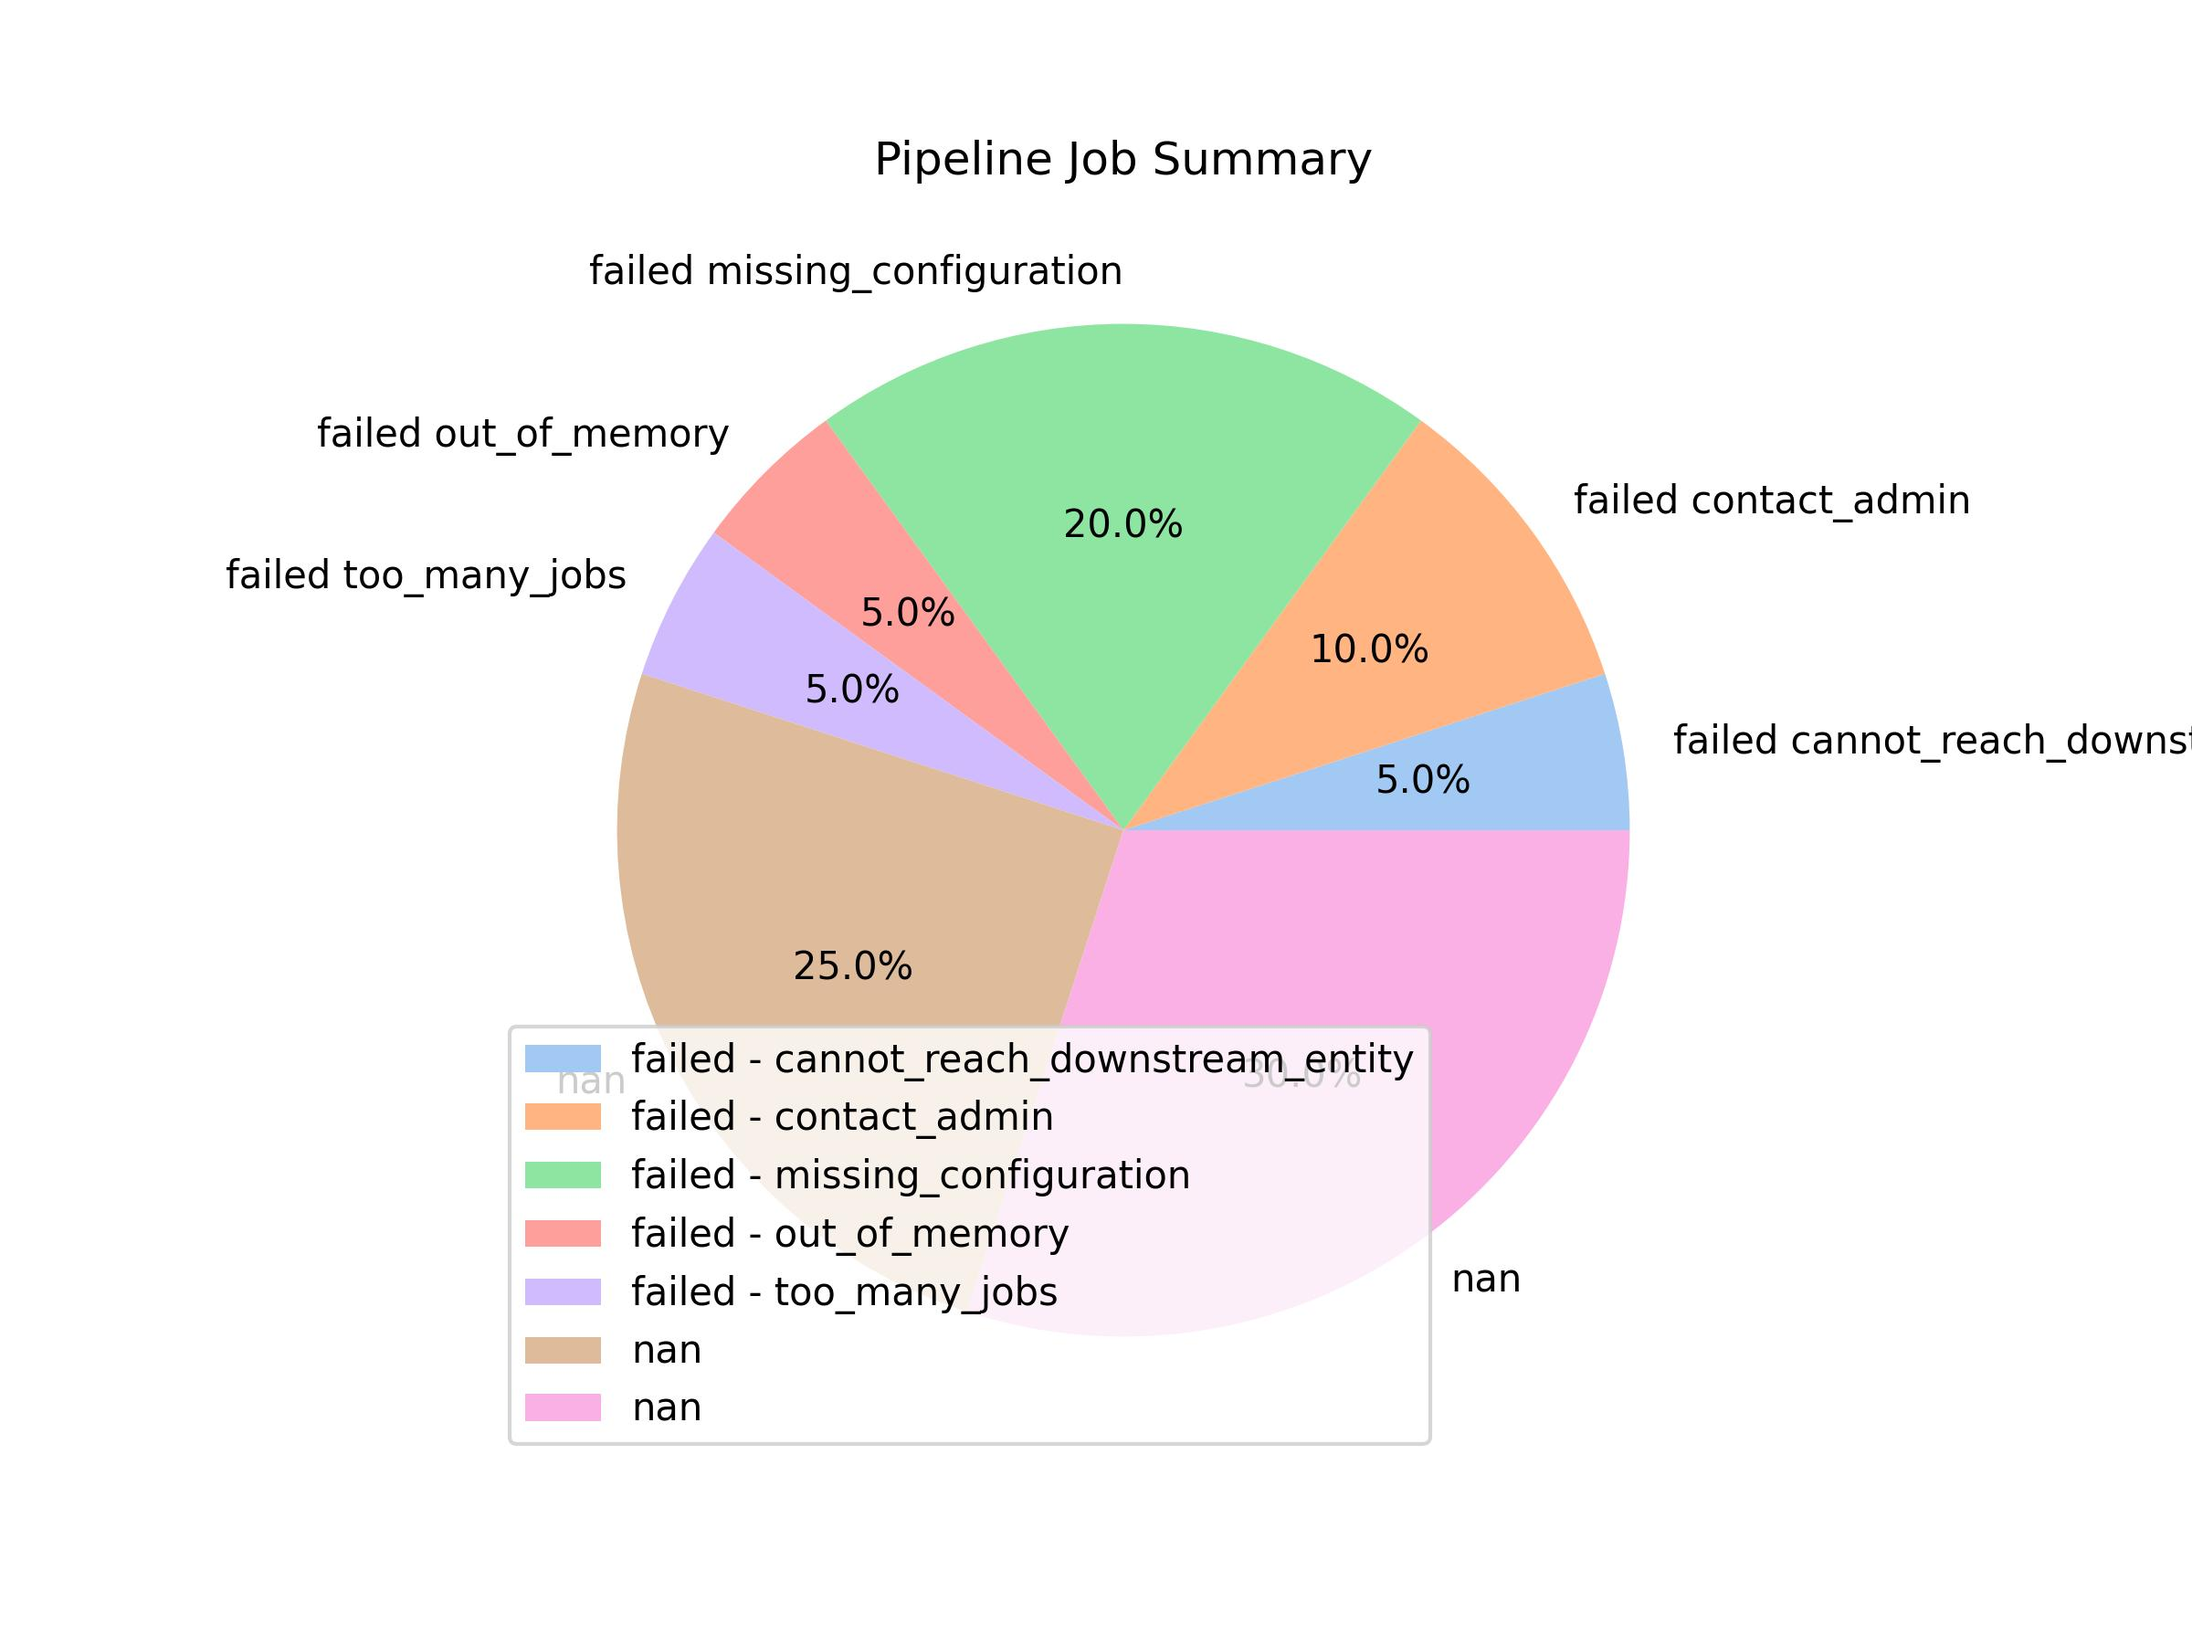
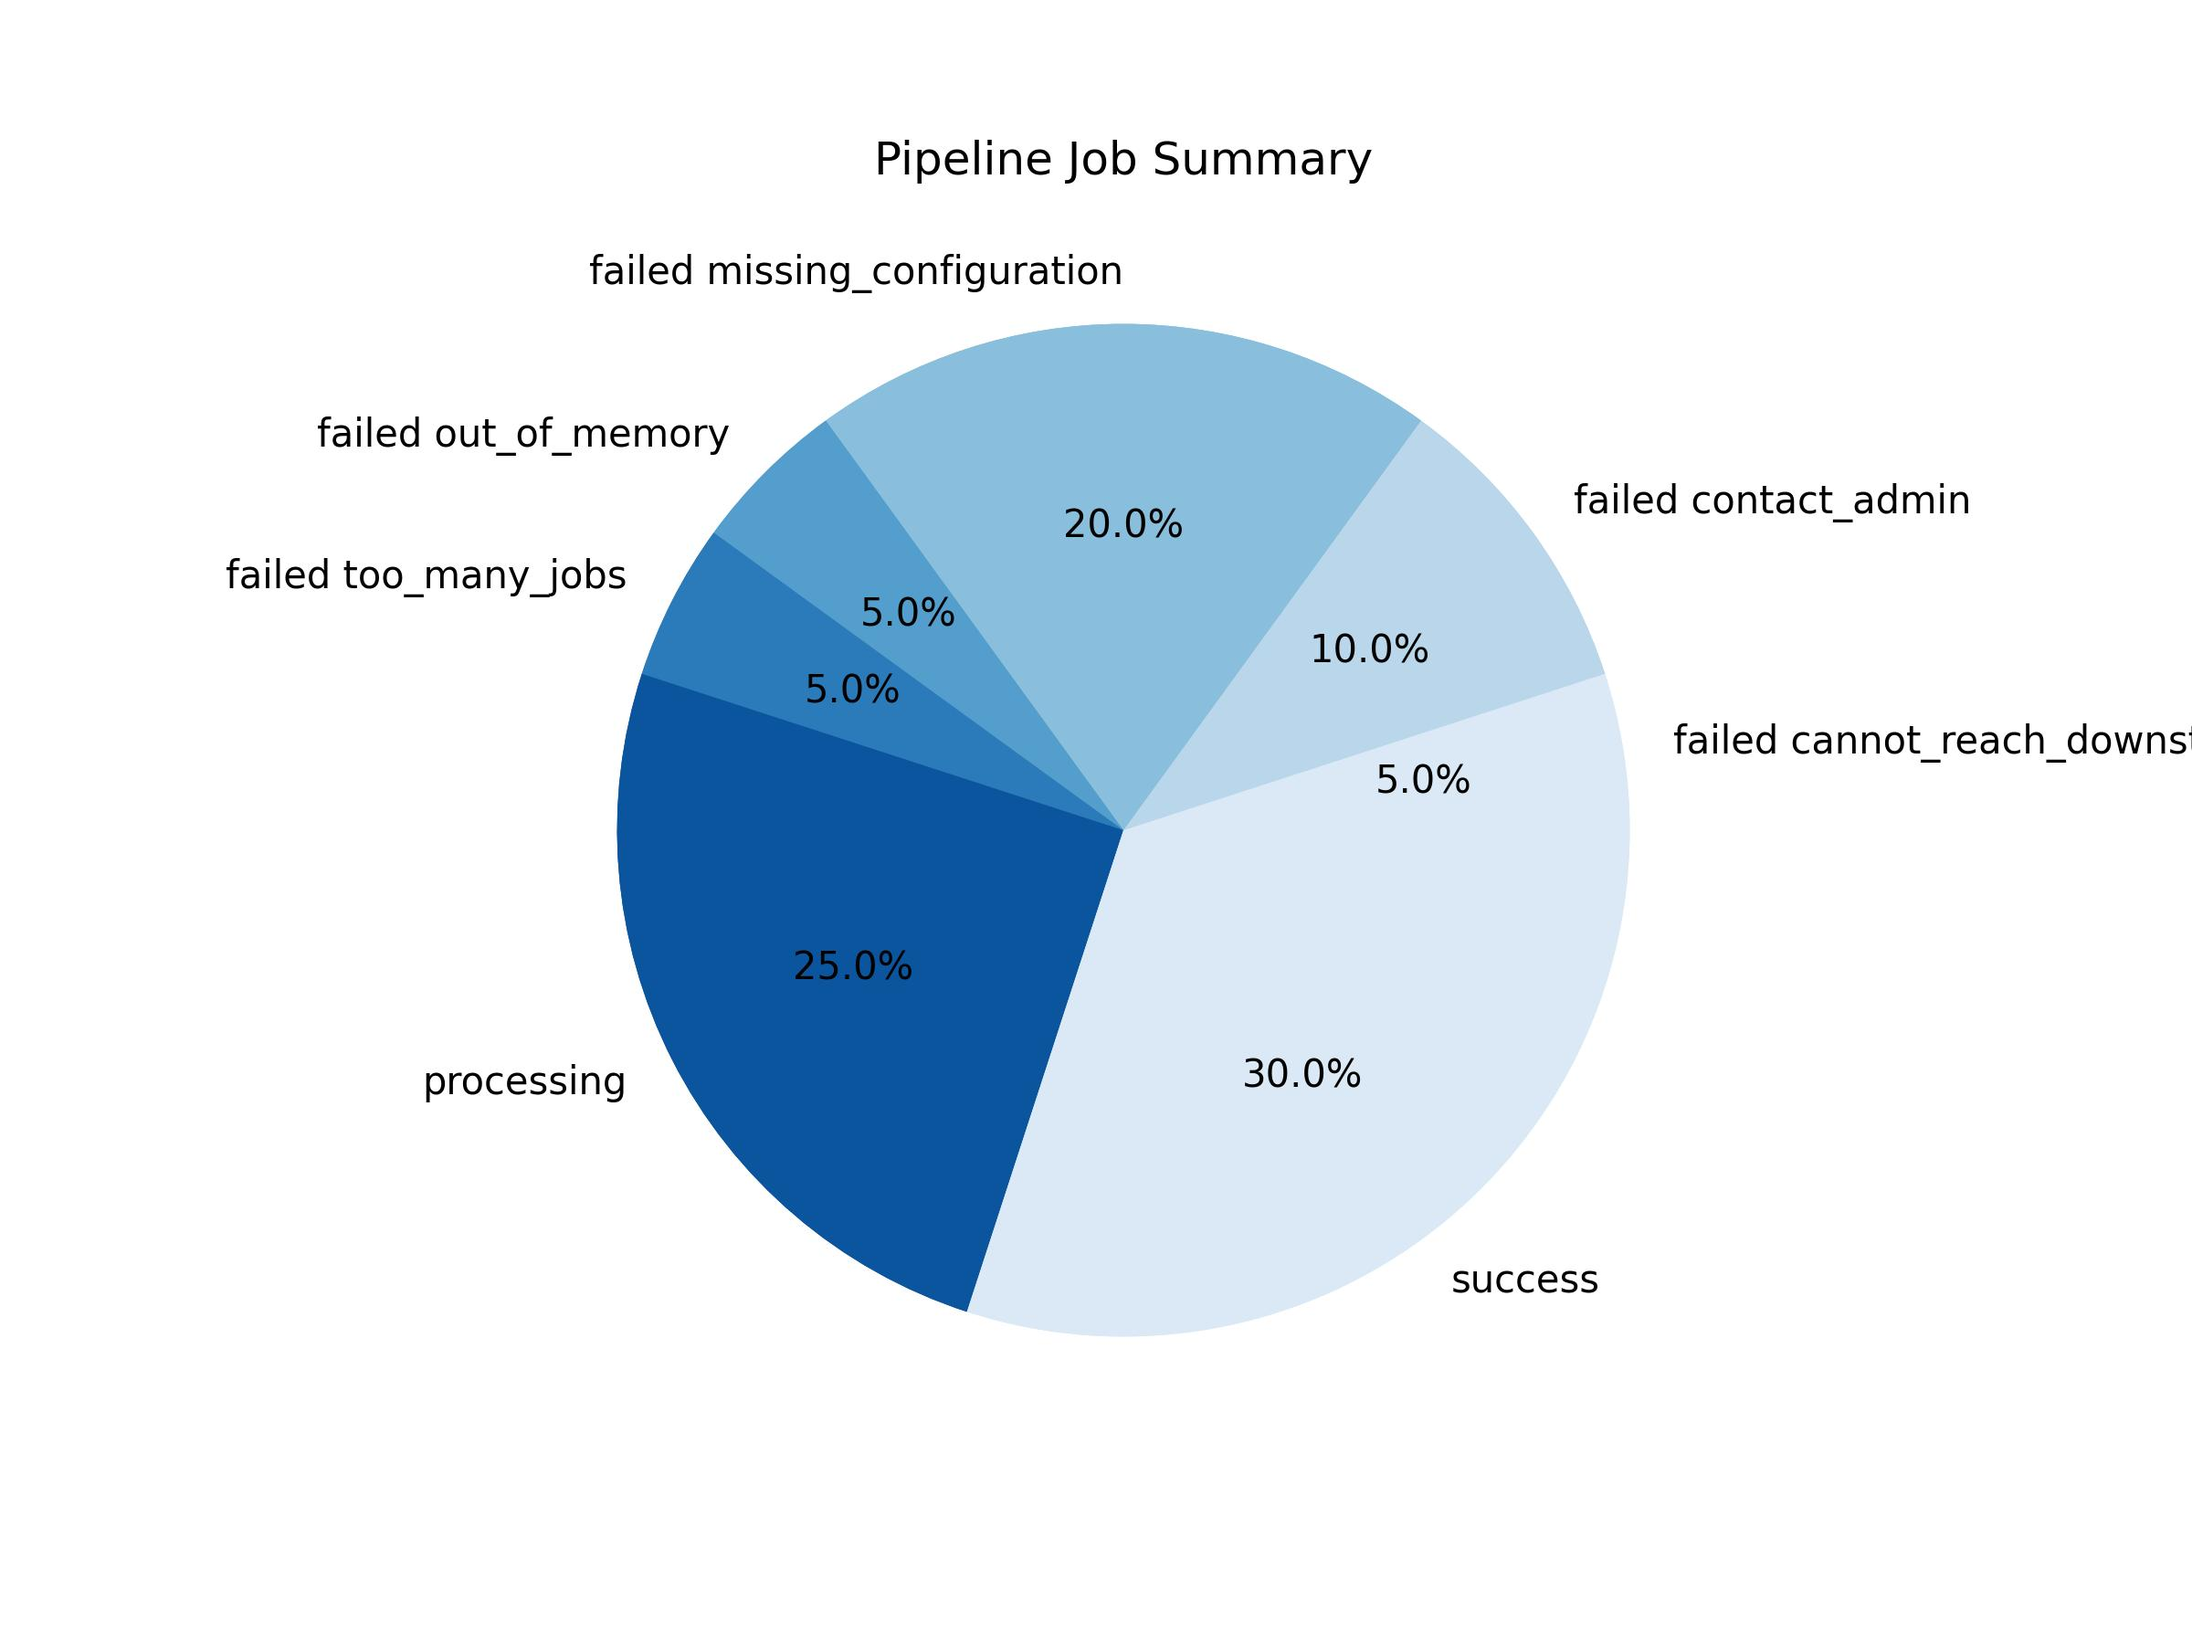
Fresh

Changed region(s): [[0.1875, 0.1867, 0.75, 0.8711], [0.6562, 0.7778, 0.7188, 0.8089]]

diff --git a/cd.py b/cd.py
@@ -15,22 +15,15 @@ Joint = df['Status'] + ' ' + df['Reason']
 Joint = np.where(pd.isnull(Joint), statuses, Joint)
 
 # Set color palette
-colors = sns.color_palette('bright')
+colors = sns.color_palette('Blues')
 
 # Create a pie chart
 plt.figure(figsize=(8, 6))  # Specify the figure size in inches
 plt.pie(occurrences, labels=Joint, autopct='%1.1f%%', colors=colors)
-
-# Add legend
-legend_labels = [f'{s} - {r}' for s, r in zip(df['Status'], df['Reason'])]
-plt.legend(legend_labels, loc='lower left')
-
-# Add title
 plt.title('Pipeline Job Summary')
 
 # Add color indicators and labels
 patches, _ = plt.pie(occurrences, colors=colors)
-plt.legend(patches, legend_labels, loc='best')
 
 # Save the pie chart as an image
 plt.savefig('pipeline_job_summary.jpg', dpi=300)
